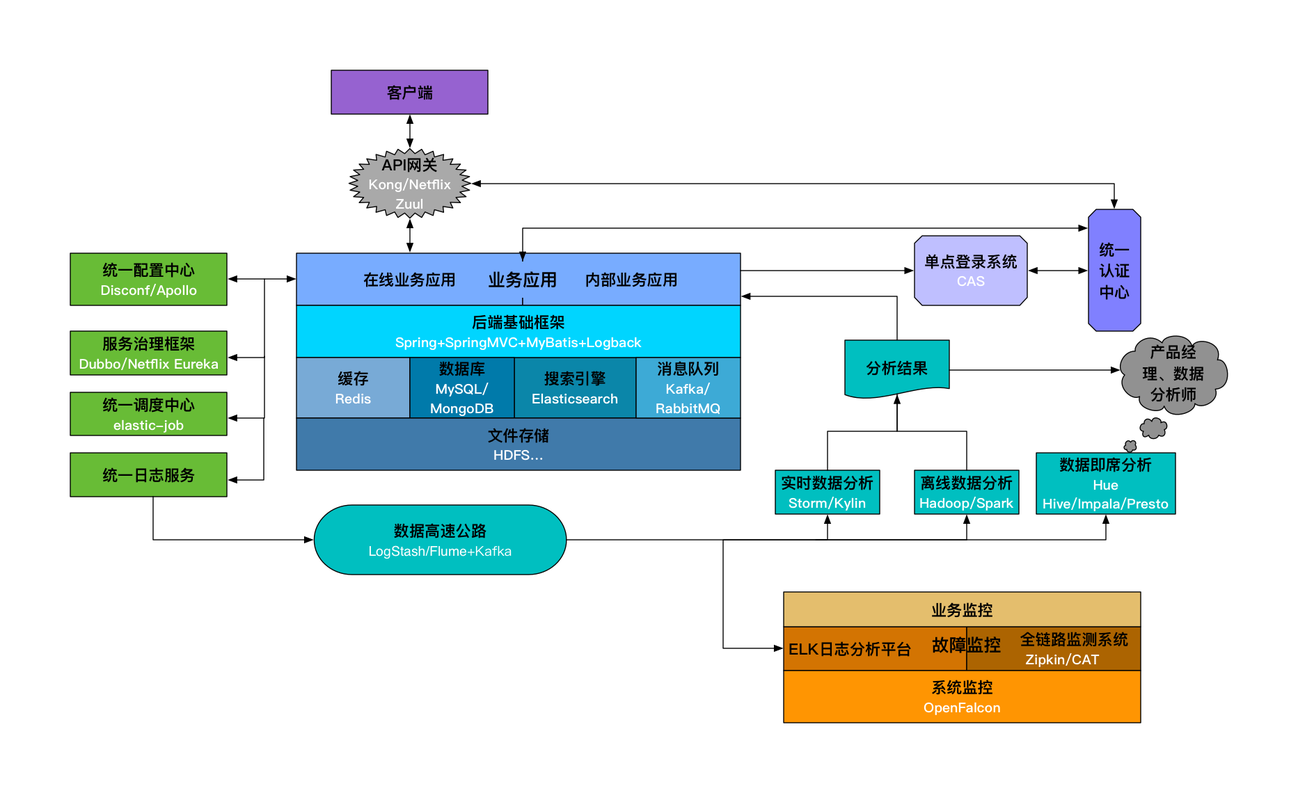
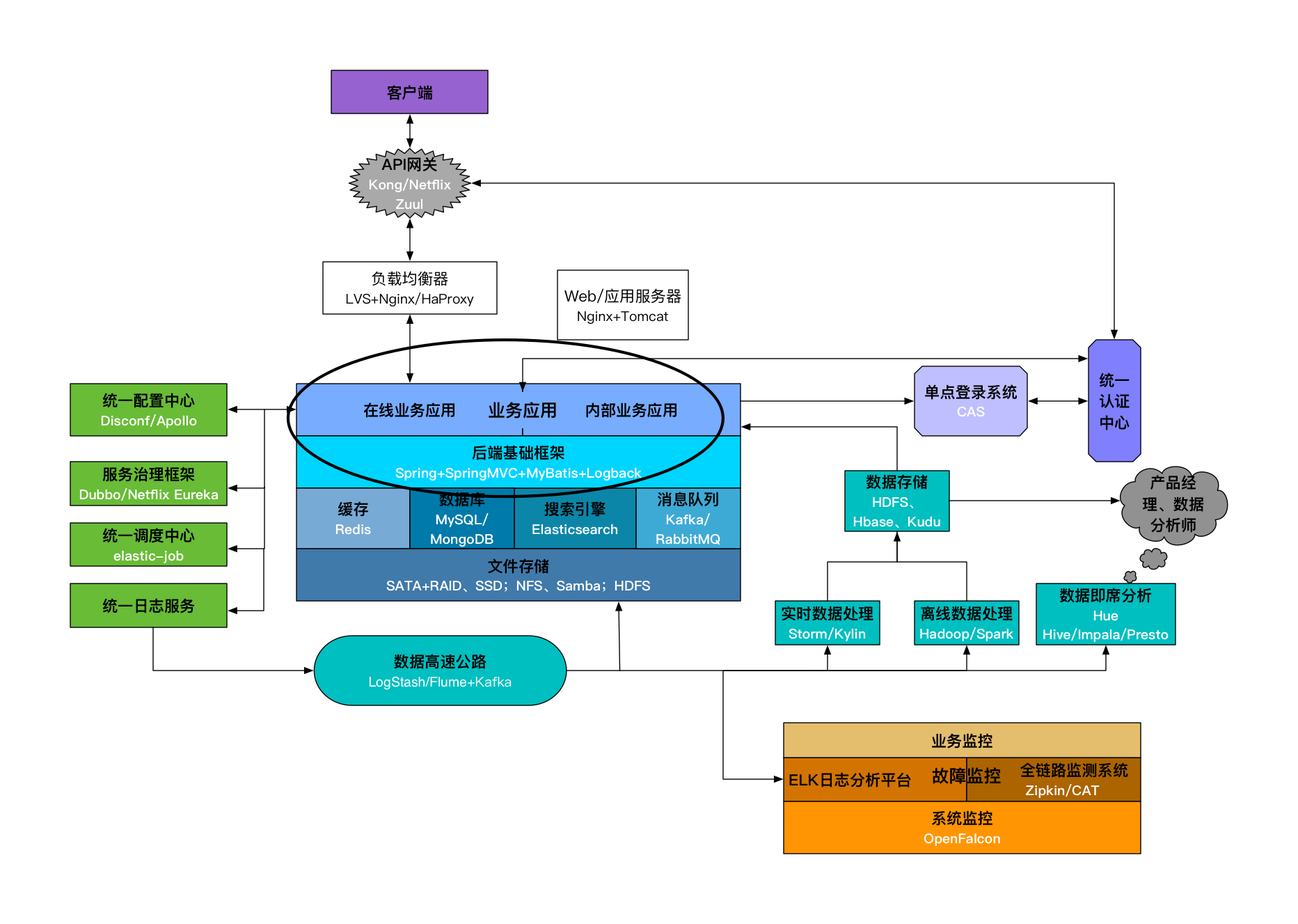
Enhancement: update

Changed region(s): [[0.0311, 0.0614, 0.9641, 0.9518], [0.5287, 0.7061, 0.5598, 0.7368]]

diff --git a/book/chapter1-servertech/server-basic.md b/book/chapter1-servertech/server-basic.md
@@ -29,20 +29,23 @@
 
 业务应用基于后端的基础框架开发，针对Java后端来说，应该有以下几个框架：
 
-- MVC框架：统一开发流程、提高开发效率、屏蔽一些关键细节的Web/后端框架。典型的如SpringMVC、Jersey以及国人开发的JFinal以及阿里的WebX。
+- Web开发框架：统一开发流程、提高开发效率、屏蔽一些关键细节的Web/后端框架。典型的如SpringMVC、Jersey以及国人开发的JFinal以及阿里的WebX。此外，目前针对IO密集型应用的异步响应式Web框架也开始得到应用，以Spring Flux和Vert.x为代表。
 - IOC框架：实现依赖注入/控制反转的框架。Java中最为流行的Spring框架的核心就是IOC功能。
 - ORM框架：能够屏蔽底层数据库细节，提供统一的数据访问接口的数据库操作框架，额外地能够支持客户端主从、分库、分表等分布式特性。MyBatis是目前最为流行的ORM框架。此外，Spring ORM中提供的JdbcTemplate也很不错。当然，对于分库分表、主从分离这些需求，一般就需要自己实现，开源的则有阿里的TDDL、当当的sharding-jdbc（从datasource层面解决了分库分表、读写分离的问题，对应用透明、零侵入）。此外，为了在服务层面统一解决分库分表、读写分离、主备切换、缓存、故障恢复等问题，很多公司都是有自己的数据库中间件的，比如阿里的Cobar、360的Atlas（基于MySQL-Proxy）、网易的DDB等；开源的则有MyCat（基于Cobar）和Kingshard,其中Kingshard已经有一定的线上使用规模。MySQL官方也提供了MySQL Proxy, 可以使用lua脚本自定义主从、读写分离、分区这些逻辑，但其性能较差，目前使用较少。
 - 缓存框架：对Redis、Memcached这些缓存软件操作的统一封装，能够支持客户端分布式方案、主从等。一般使用Spring的RedisTemplate即可，也可以使用Jedis做自己的封装，支持客户端分布式方案、主从等。
+- 日志框架：对于线上后端应用来说，服务是不能随便中断和调试的，因此日志是定位Bug、性能问题必不可少的东西。Java中常用的日志框架包括：JUL、Log4j、Logback、JCL（日志门面）、SLF4j（日志门面）等。其中SLf4j+Logback是目前比较好的选择方案，Log4j2则是最新的日志框架。
 - JavaEE应用性能检测框架：对于线上的JavaEE应用，需要有一个统一的框架集成到每一个业务中检测每一个请求、方法调用、JDBC连接、Redis连接等的耗时、状态等。Jwebap是一个可以使用的性能检测工具，但由于其已经很多年没有更新，有可能的话建议基于此项目做二次开发。
 
 一般来说，以上几个框架即可以完成一个后端应用的雏形。
 
-## 1.1.3 缓存、数据库、搜索引擎、消息队列
+## 1.1.3 基础服务软件
 
-缓存、数据库、搜索引擎、消息队列这四者都是应用依赖的后端基础服务，他们的性能直接影响到了应用的整体性能，有时候你代码写的再好也许就是因为这些服务导致应用性能无法提升上去。
+负载均衡器、Web/应用服务器、缓存、数据库、搜索引擎、消息队列这些都是应用依赖的后端基础服务软件，他们的性能直接影响到了应用的整体性能，有时候你代码写的再好也许就是因为这些服务导致应用性能无法提升上去。
 
+- 负载均衡器：反向代理多个克隆服务节点共同对外提供服务。LVS做四层流量转发，Nginx做七层流量转发，HaProxy兼具七层、四层流量转发功能。此外DNS轮训也是一种负载均衡方案。当然，F5等硬件负载均衡器性能会更高。
+- Web/应用服务器：上述的业务应用最终是需要运行在Web/应用服务器中才能对外提供服务的。Nginx、Apache Http Server、微软的IIS是常用的Web服务器；Tomcat、Jetty是常用的JavaEE容器；JBoss、Weblogic是常用的JavaEE应用服务器，但在互联网技术领域并不常用。
 - 缓存: 缓存通常被用来解决热点数据的访问问题，是提高数据查询性能的强大武器。在高并发的后端应用中，将数据持久层的数据加载到缓存中，能够隔离高并发请求与后端数据库，避免数据库被大量请求击垮。目前常用的除了在内存中的本地缓存，比较普遍的集中缓存软件有Memcached和Redis。其中Redis已经成为最主流的缓存软件。
-- 数据库：数据库可以说是后端应用最基本的基础设施。基本上绝大多数业务数据都是持久化存储在数据库中的。主流的数据库包括传统的关系型数据库（MySQL、PostgreSQL）以及最近几年开始流行的NoSQL（MongoDB、HBase）。其中HBase是用于大数据领域的列数据库，受限于其查询性能，一般并不用来做业务数据库。
+- 数据库：数据库可以说是后端应用最基本的基础设施。基本上绝大多数业务数据都是持久化存储在数据库中的。主流的数据库包括传统的关系型数据库（MySQL、PostgreSQL）以及最近几年开始流行的NoSQL（MongoDB、HBase）。其中HBase是用于大数据领域的列数据库，受限于其查询性能，一般并不用来做业务数据库。此外，包括Google的Spanner和国内PingCAP的TiDB则是NewsSQL，其结合了传统的RDBMS与NoSQL技术，可以理解成分布式关系型数据库。
 - 搜索引擎：搜索引擎是针对全文检索以及数据各种维度查询设计的软件。目前用的比较多的开源软件是Solr和Elasticsearch，都是基于Lucence来实现的，不同之处主要在于termIndex的存储、分布式架构的支持等。Elasticsearch由于对集群的良好支持以及高性能的实现，已经逐渐成为搜索引擎的主流开源方案。
 - 消息队列：数据传输的一种方式就是通过消息队列。目前用的比较普遍的消息队列包括为日志设计的Kafka以及重事务的RabbitMQ等。在对消息丢失不是特别敏感且并不要求消息事务的场景下，选择Kafka能够获得更高的性能；否则，RabbitMQ则是更好的选择。此外，ZeroMQ则是一种实现消息队列的网络编程Pattern库，位于Socket之上，MQ之下。
 
@@ -182,8 +185,8 @@
 
 数据的最终用途是用来分析的，即能够在多个维度以及其组合上输出统计报表数据。目前主要有两种解决此问题的方案：ROLAP和MOLAP。
 
-- ROLAP：使用关系型数据库或者扩展的关系型数据库来管理数据仓库数据，以Hive、Spark SQL、Presto、Impala为代表。
-- MOLAP：基于数据立方体的多位存储引擎，用空间换时间，把所有的分析情况都物化为物理表或者视图。以Druid、Pinot和Kylin为代表，不同于ROLAP（Hive、Spark SQL）, 其原生的支持多维的数据查询。
+- ROLAP：使用关系型数据库或者扩展的关系型数据库来管理数据仓库数据，以Hive、Spark SQL、Presto、Impala为代表，其中后两者是MPP架构，能够达到秒级的响应。
+- MOLAP：基于数据立方体的多位存储引擎，用空间换时间，把所有的分析情况都物化为物理表或者视图。以Druid、Pinot和Kylin为代表，不同于ROLAP, 其原生的支持多维的数据查询。
 
 其中，ROLAP能够组合任意维度进行数据展示和分析（Adhoc Query,数据即席查询），可以在离线和实时数据处理产生的定制报表无法满足数据需求方时，提供给一个可以根据自己的需求灵活的选择查询条件进行分析的工具，能够大大提高数据分析师、产品经理的工作效率。如果想进一步提供给需求方更加直观的UI操作界面，可以搭建内部的Hue。
 
@@ -198,7 +201,6 @@ Pinot | 实时处理分析 | Java | JSON |  实时聚合
 Kylin | OLAP分析引擎 | Java | JDBC/OLAP |  预处理、cache
 
 其中，Druid相对比较轻量级，用的人较多，比较成熟。
-
 
 ## 1.1.12 故障监控
 
@@ -218,3 +220,5 @@ Kylin | OLAP分析引擎 | Java | JDBC/OLAP |  预处理、cache
 
 - 建立ELK（Elasticsearch + Logstash + Kibana）日志集中分析平台，便于快速搜索、定位日志。搭配Yelp开源的Elastalert可以实现告警功能。
 - 建立分布式请求追踪系统（也可以叫全链路监测系统），对于分布式系统尤是微服务架构，能够极大的方便在海量调用中快速定位并收集单个异常请求信息，也能快速定位一条请求链路的性能瓶颈。唯品会的Mercury、阿里的鹰眼、新浪的WatchMan、Twitter开源的Zipkin基本都是基于Google的Dapper论文而来，大众点评的实时应用监控平台CAT则在支持分布式请求追踪（代码侵入式）的基础上加入了细粒度的调用性能数据统计。此外，Apache正在孵化中的HTrace则是针对大的分布式系统诸如HDFS文件系统、HBase存储引擎而设计的分布式追踪方案。而如果你的微服务实现使用了Spring Cloud，那么Spring Cloud Sleuth则是最佳的分布式跟踪方案。还需要提到的是，Apache孵化中的SkyWalking是基于分布式追踪的一个完备的APM（应用性能监测）系统，其最大的一个特点就是基于Java agent + instrument api，对业务代码无任何侵入，Pinpoint则是类似的另一个已经用于生产环境的APM系统。
+
+

diff --git a/book/chapter1-servertech/server-tech-tree.md b/book/chapter1-servertech/server-tech-tree.md
@@ -1,6 +1,6 @@
 # 1.2 Java后端技术概览
 
-基于上一节讲述的后端基础设施，可以从中引出其需要的技能列表。进一步细化可以得到更为具体的技能树，也是Java后端工程师技能的一个总体概览图：
+基于1.1节介绍的后端基础设施，可以从中引出其需要的技能列表。进一步细化可以得到更为具体的技能树，也是Java后端工程师技能的一个总体概览图：
 
 ![java-skill-tree](media/java-skill-tree.png)
 
@@ -108,13 +108,15 @@
     
 ## 1.2.9 系统架构
 
-一个应用从0开始一般会经历单体应用、垂直应用到分布式服务架构的演化。如下图所示：
+一个Web应用从0开始一般会经历单体应用、垂直应用到分布式服务架构的演化（具体的会随着业务的不同有所不同）。如下图所示：
     
 ![arch](media/arch.png)
 
 - 单体应用：当应用规模、团队规模比较小的时候，只需要一个包括了所有功能的应用即可。减少部署结点，也减少了部署成本。此时，对数据库的ORM操作是架构实现的关键点。
-- 垂直应用：当应用的用户规模越来越大，请求量越来越高的时候。单体应用增加结点带来的资源浪费会凸现出来，因为绝大多数接口请求量并没有特别大，根本没必要扩充到多个结点。此时，就可以将单体应用拆分成互不相关的几个应用，分别对外提供服务。此时，加速每个应用开发的MVC框架是架构实现的关键点。
-- 分布式服务：当垂直应用越来越多，应用之间的交互不可避免。抽离核心业务单独部署，逐渐形成稳定的服务中心。而随着团队规模的相应扩大，服务会随着团队的增多变得越来越多，粒度也会变得越来越小,也就逐步形成了分布式服务的架构，而当粒度细到某种程度、服务数量多到一定程度则可以称之为微服务。即在设计好业务边界之后将原来的单体应用分解成一个个细粒度的服务，彼此之间通过某种方式进行通信。微服务架构的关键在于如何做好服务的治理、调度、维护工作。目前，Dubbo算是微服务架构中用的比较多的框架，但Dubbo仅仅解决了微服务架构中的一部分问题。Spring Cloud则基本上涵盖了微服务架构的各个方面。
+- 垂直应用：当应用的用户规模越来越大，请求量越来越高的时候。单体应用增加结点带来的资源浪费会凸现出来，因为绝大多数接口请求量并没有特别大，根本没必要扩充到多个结点。此时，就可以将单体应用拆分成互不相关的几个应用，分别对外提供服务。加速每个应用开发的MVC框架是架构实现的关键点。
+- 分布式服务：当垂直应用越来越多，应用之间的交互不可避免。抽离核心业务单独部署，逐渐形成稳定的服务中心。而随着团队规模的相应扩大，服务会随着团队的增多变得越来越多，粒度也会变得越来越小,也就逐步形成了分布式服务的架构，而当粒度细到某种程度、服务数量多到一定程度则可以称之为微服务。即在设计好业务边界之后将原来的单体应用分解成一个个细粒度的服务，彼此之间通过某种方式进行通信。微服务架构的关键在于如何做好服务的治理、调度、维护工作。目前，Dubbo算是微服务架构中用的比较多的框架，但Dubbo仅仅解决了微服务架构中的一部分问题。Spring Cloud则基本上涵盖了微服务架构的各个方面。Service Mesh是微服务进一步发展的架构，其最大的特点是对原有系统零侵入。
+
+当然，脱离业务谈架构是不负责任的，技术架构演进是业务目标驱动的，具体的架构演进过程需要结合实际的业务需求来进行。
 
 ## 1.2.10 部署架构
 
@@ -131,6 +133,8 @@
 
 其中，虚线部分是数据库层，采用的是主从模式。也可以使用Redis Cluster（Codis等）以及MySQL Cluster（Cobar等）来替换。
 
+此外，从分布式系统分层模型来看，LVS+Nginx部分是接入层，Tomcat部分是逻辑层，Redis+MySQL则是数据存储层。
+
 ## 1.2.11 架构技能
 
 架构设计是很多研发工程师眼里一个比较高大上的工作，很多人的职业理想也是成为架构师。那什么是架构，具有哪些能力才能成为架构师呢？
@@ -139,8 +143,22 @@
 
 - 基础技术能力：精通某种技术，能够从本质上理解并能够触类旁通。架构师需要具有良好的性能优化能力，能够在应用上线前预估到可能出现的性能问题并给出解决方案；架构师需要具有扎实的调试能力，不管是在代码开发阶段还是线上环境，在应用发生bug或者线上故障时，能够快速识别问题并解决。
 - 设计能力：能够识别问题的本质，区分来自需求方的需求是伪需求还是真正的需求，避免把解决方案当做问题；精通设计模式和各种技术架构，但又不滥用；具有解耦系统的能力，使得系统之间松耦合，原来只能串行的任务可以并行开展。
-- 技术选型能力：平等对待所有技术，只有合适与不合适，没有喜欢与不喜欢；了解主流技术的优缺点，能够辨别是否需要总爱轮子。
+- 技术选型能力：平等对待所有技术，只有合适与不合适，没有喜欢与不喜欢；了解主流技术的优缺点，能够辨别是否需要造轮子。
 - 技术前瞻能力：能够预料到需求可能产生怎样的变化，做好前瞻性设计；能清楚地知道系统的瓶颈在什么地方，不断地定位技术难度、研发进度、性能、内存等各方面的瓶颈，不断调整骨干力量解决瓶颈，在风险爆发之前就消除隐患。
+- 沟通能力：架构师需要和业务的各种角色打交道，从而能够在充分理解业务的基础上做好架构设计，因此如何与各种角色的同事做好沟通、理解各方的诉求是一个非常关键的能力。
 - 管理能力：此能力在笔者看来并非是架构师必须的，但确实是能够锦上添花的，包括项目管理和团队管理。对于前者，需要合理划分系统模块、知人善用、有效沟通、控制成本、合理把握进度；对于后者，则需要多倾听团队成员的意见、主动承担责任、多站在成员角度考虑问题、为成员的成长负责。
 
 此外，附录F给出了做架构设计的简明指南供参考。
+
+## 1.2.12 后端技术体系
+
+对于一个以业务为主的后端技术团队，随着业务的发展会逐渐形成三个主要技术体系。如下:
+
+![](media/three-server-tech.png)
+
+- 业务研发：主要负责的是业务逻辑的开发，通常关注的就是开发效率、接口性能、研发流程等。面对的挑战主要是高并发、大流量等挑战。
+- 大数据：随着业务量的上升，数据的不断增加，需要依赖大数据技术来提高数据处理效率，从而进一步促进业务的增长。包括数据仓库构建、实时数据分析方面的研发。面对的挑战主要是数据采集、数据清洗、海量数据处理、数据仓库高效存取等。
+- 数据挖掘：挖掘数据金矿，利用数据服务于业务。虽然现在很多说法都是和大数据一起讲的，其实数据挖掘和大数据并没有必然联系，只不过海量数据能够给予数据挖掘更加丰富的训练数据，从而使得模型更准确。面对的挑战主要是各种数据挖掘算法、模型的构建、使用和调优。
+
+对于大的团队来说，还会有专门的团队负责基础框架、中间件、基础设施（运维、云计算、测试）的研发。
+

diff --git a/book/chapter1-servertech/how-to-study.md b/book/chapter1-servertech/how-to-study.md
@@ -7,6 +7,7 @@
 - 动手实践
 - 频繁练习
 - 持续学习
+- 计算机思维
 - 自我总结
 - 学会规划
 
@@ -27,9 +28,14 @@
 
 这也可以映射到现在的一种现象：很多开发工程师工作了很久，看着经验丰富，但基本都是拿着一年的工作经验重复n年的。基本上每一份工作，每一个项目都在那里做重复劳动，而且也并不去考虑如何避免重复劳动这件事。
 
-进一步的，除了遇到问题再去看源码、究底层，主动阅读经典类库、高质量开源项目的源码以及其他同事写的代码，学习其中好的架构、设计、编码风格以及类库的使用也是促进自身技术进步的一个非常有效的方式。
+进一步的，除了遇到问题再去看源码、究底层，主动阅读经典类库、高质量开源项目的源码以及其他同事写的代码，学习其中好的架构、设计、编码风格以及类库的使用也是促进自身技术进步的一个非常有效的方式。需要注意的是，在看到好的代码实现、架构设计时最重要的是学习其中的思路，而不是仅仅学习结果。可以试着去问自己如下的问题：
 
-这也牵扯到了技术的广度和深度的问题。就我自己来看，对于刚刚毕业或者刚刚入职的工程师来说，首要的是深度问题，只有你在某一领域有了深入的研究和造诣了，你才能融汇贯通，迅速地扩大自己的知识面，在广度上做到突破。而对于有一定工作经验的工程师来说，虽然深度不是那么必须了，但是遇到的问题、新学到的东西还是刨根问底才好，否则一旦出现问题再去盲羊补牢会让你显得非常被动，也不利于自己的技术发展。毕竟，一个什么都做过、什么都用过却什么也不精的人可替代性太强了。
+- 如果自己遇到这种问题会怎么解决，与资料中的解决方案相比优劣如何？
+- 别人为什么会想到这种解决方案？
+- 自己是由于经验欠缺还是技能点欠缺才导致没有想到好的解决方案？
+- 解决这类问题的根本思路是什么样的？
+
+“知其然更要知其所以然”这一点其实也牵扯到了技术的广度和深度的问题。就我自己来看，对于刚刚毕业或者刚刚入职的工程师来说，首要的是深度问题，只有你在某一领域有了深入的研究和造诣了，你才能融汇贯通，迅速地扩大自己的知识面，在广度上做到突破。而对于有一定工作经验的工程师来说，虽然深度不是那么必须了，但是遇到的问题、新学到的东西还是刨根问底才好，否则一旦出现问题再去盲羊补牢会让你显得非常被动，也不利于自己的技术发展。毕竟，一个什么都做过、什么都用过却什么也不精的人可替代性太强了。
 
 ## 1.3.3 动手实践
 
@@ -45,11 +51,12 @@
 
 ## 1.3.5 持续学习
 
-“活到老，学到老”这句话用在程序员这个职业上再合适不过。IT技术尤其是互联网开发中的技术，其迭代是非常迅速的。也许你今天学的，过不了几年就成了被抛弃的。虽然相比起前端技术，后端技术算是比较稳定的，但相比起其他行业，迭代速度还是非常快的，像Struts这种当年火的一塌糊涂的技术现在也成了过时的东西。因此，一定要对新事物、新技术具有敏感性，要不断地去涉猎业界最新的知识点，扩充自己的知识库。
+“活到老，学到老”这句话用在程序员这个职业上再合适不过。IT技术尤其是互联网开发中的技术，其迭代是非常迅速的。也许你今天学的，过不了几年就成了被抛弃的。虽然相比起前端技术，后端技术算是比较稳定的，但相比起其他行业，迭代速度还是非常快的，像Struts这种当年火的一塌糊涂的技术现在也成了过时的东西。因此，一定要对新事物、新技术具有敏感性，要不断地去涉猎业界最新的知识点，扩充自己的知识库。而学习新的知识的时候，与读一些书籍和网上的博文相比，直接阅读相关知识的官方文档是笔者推崇的方式，毕竟经过二次加工的书籍、博文很多时候由于写作者水平或者个人理解的问题会有错误或者偏离原作者的意思。而由于目前IT技术绝大多数都源自欧美，欧美的技术水平也领先国内很多，因此英文对于IT技术从业者的要求也是比较高的，需要达到熟知各种计算机术语，通畅地阅读各类英文资料的水平才不至于在学习方面落后。
 
 这里还需要提到一点就是要“逃离舒适区”。人对自己熟悉的东西都比较亲切，对自己熟练掌握的技术一般也能够自信地使用，然而当需要使用自己没接触过的技术时，很多人就望而却步、不敢尝试，进而也就丧失了学习新的知识、扩充自己知识库的机会。最好的方式应该是敢于“逃离舒适区”、敢于使用新的技术，这样才能让自己具有持续的学习兴趣，促进自己的持续进步。
 
 此外，现在业界有很多技术会议，动辄就是全球、全世界这种名头。经常参加这些会议的人肯定是好学的，但是这种会议上都是些流于表面的东西，把精力放在这上面的人的知识也很容易流于表面。笔者比较推荐通过多阅读书籍来学习，喜欢读书的人也习惯于深度思考，深度思考才能更新形成自己的知识体系。尤其对处于技术上升期的程序员，少参加会议，少混圈子，多看书，多做一些能够提升自己技术能力的事情。除非经济压力大，尽量避免去做一些毫无技术含量的外包项目。
+
 
 ## 1.3.6 计算机思维
 

diff --git a/book/chapter1-servertech/README.md b/book/chapter1-servertech/README.md
@@ -8,14 +8,15 @@
 
 由于前端技术和后端技术与用户接触的层次不一样，很多关注点也是不一样的。对于后端技术来讲，一般情况下需要关注的是以下几个指标：
 
-- 可用率：能够提供正常服务的时间占线上运行时间的百分比。这个是后端服务中一个很关键的指标，很多应用都需要达到99.9%以上。这里需要注意的是系统是否可用经常是用响应时间作为衡量指标的，关注的是系统提供正常服务的效率；与响应时间类似的，吞吐量也是衡量系统是否可用的另一个指标，指的是系统一段时间内的处理能力。
+- 可用率：能够提供正常服务的时间占线上运行时间的百分比。这个是后端服务中一个很关键的指标，很多应用都需要达到99.9%以上。这里需要注意的是系统是否可用经常是用响应时间作为衡量指标的，关注的是系统提供正常服务的效率，越低的响应时间，越低的延迟，则系统的性能越好。
+- 吞吐量：指的是系统一段时间内处理任务的能力，同响应时间一样也是衡量系统性能的关键指标。并发量则是吞吐量的延伸，指的是系统同一时间能够服务的任务数，一般来说能够支撑并发量越大，那么吞吐量也就越大。
 - 稳定性：也叫做鲁棒性、健壮性，即服务在异常和危险情况下保持稳定的能力。
-- 容错性：在服务出现错误或者异常的时候，能够继续提供一定服务的能力，主要强调的是容许误差、故障的能力。
+- 容错性：在服务出现错误或者异常的时候，能够继续提供一定服务的能力，主要强调的是容许误差、故障的能力。显然，此指标会影响可用率，容错性越好，那么系统的可用率也就会越高。
 - 扩展性：主要指的服务的动态扩展能力，即通过扩展（而非修改）现有系统的能力来满足需求的能力。
 - 维护性：指的是修正服务错误、修改服务功能的能力。
 - 安全性：保障系统以及用户数据安全性的能力，包括保障系统不被非法入侵、用户数据不被泄漏等。
 
-除此之外很多书籍和资料还会有可靠性、可用性等说法，其实本质上是以上指标的另一种说法而已。一般来说后端服务只要满足了高可用、可容错、可扩展、可维护、稳定性、安全性即可。后端技术也基本是围绕着这几个目标来进行的。
+除此之外很多书籍和资料还会有可靠性、可用性等说法，其实本质上是以上指标的另一种说法而已。一般来说后端服务的设计目标主要包括高可用、低延迟、高吞吐、高并发、可容错、可扩展、可维护、稳定、安全。后端技术也基本是围绕着这几个目标来进行的。
 
 综上，由于后端技术覆盖范围太广以及本人知识所限，本书所说的后端技术主要指的是一些Java后端工程师能够胜任开发工作应该必备的一些技能。
 
